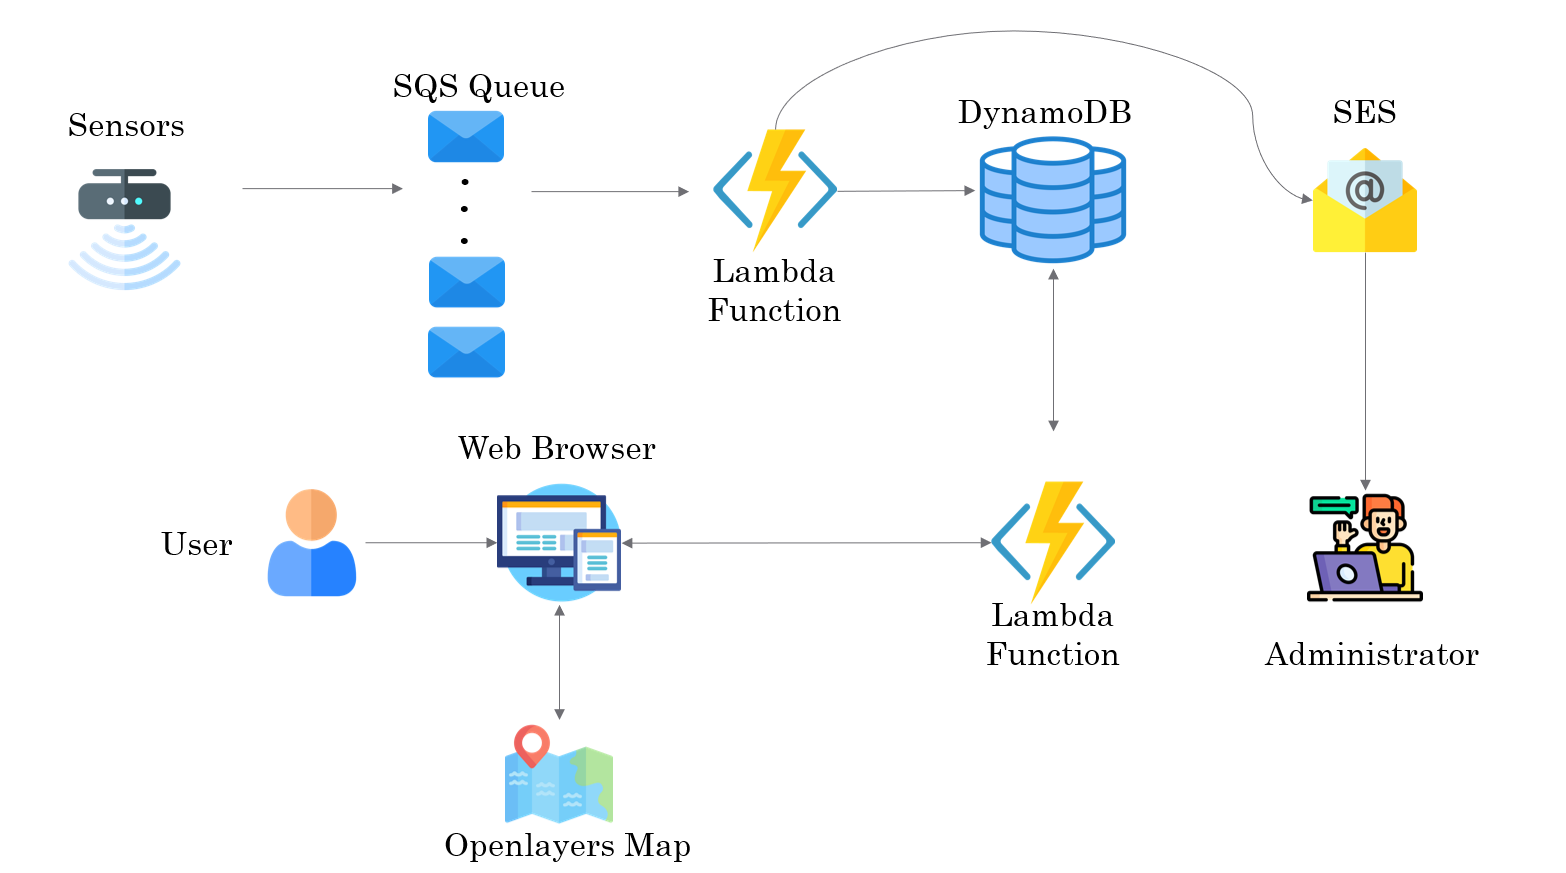
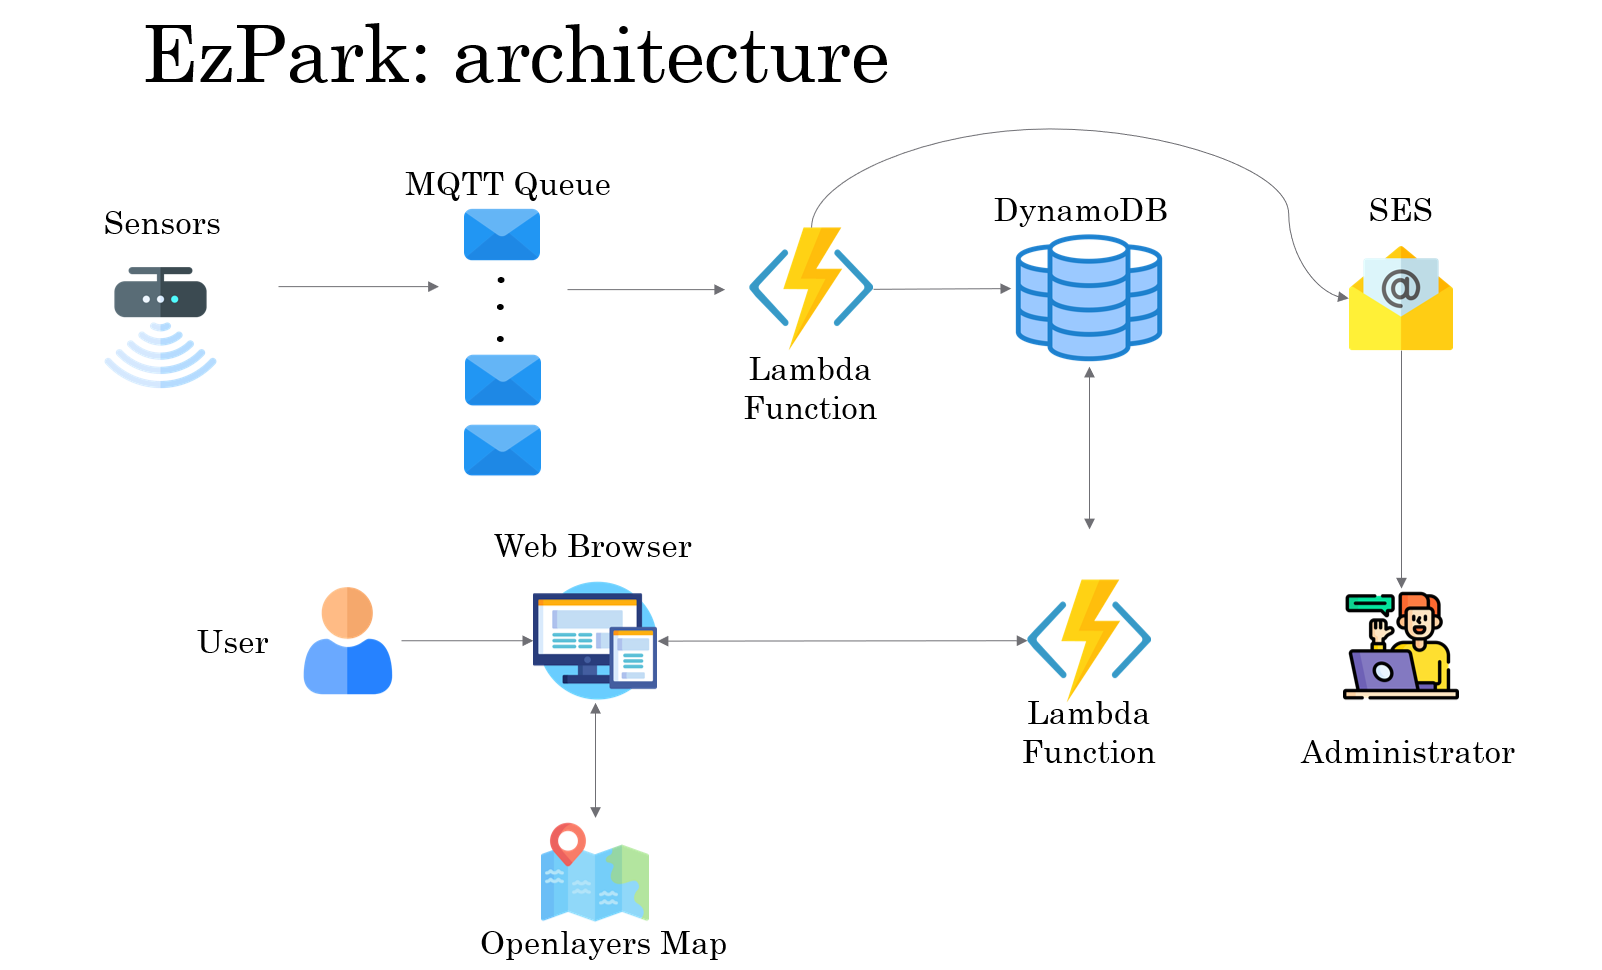
Updated the flow and added a known_bug image

diff --git a/Update_Free_Parking_Areas.py b/Update_Free_Parking_Areas.py
@@ -1,68 +1,46 @@
 import boto3
 import datetime
-import json
-
 
 def lambda_handler(event, context):
 	dynamodb = boto3.resource('dynamodb', endpoint_url="http://localhost:4566")
-	sqs_client = boto3.client('sqs', endpoint_url='http://localhost:4566')
 	ses = boto3.client('ses', endpoint_url='http://localhost:4566')
 
-	table = dynamodb.Table('Parcheggio')
+	table = dynamodb.Table('Parkings')
+	message = []
 
-	cities = ['Caserta', 'Napoli', 'Salerno']
-
-
-	for city in cities:
-		messages=[]
-		#response = queue.receive_messages(MaxNumberOfMessages=10, VisibilityTimeout=10, WaitTimeSeconds=10)
-		response = sqs_client.receive_message(
-			QueueUrl='http://localhost:4566/000000000000/'+city+'_sensors',
-			AttributeNames=[
-				'All'
-				],
-			MaxNumberOfMessages=10,
-			VisibilityTimeout=10,
-			WaitTimeSeconds=10,
+	for update in event:
+		if (update[3] != '-1'):
+			table.update_item(
+				TableName='Parkings',
+				Key={'parking_area_id': update[0]
+				},
+				ConditionExpression='attribute_exists(parking_area_id)',
+				UpdateExpression='SET parking_area_free = :val',
+				ExpressionAttributeValues = {':val': update[3]}
 			)
-		if(response):
-			messages=response.get("Messages", [])
-			for message in messages:
-				message_body = message["Body"]
-				content=json.loads(message_body)
-				list_of_values=list(content.values())
-				receipt_handle=message['ReceiptHandle']
-				if (list_of_values[3] != '-1'):
-					table.update_item(
-						TableName='Parcheggio',
-						Key={'parking_area_id': list_of_values[0]
-						},
-						ConditionExpression='attribute_exists(parking_area_id)',
-						UpdateExpression='SET parking_area_free = :val',
-						ExpressionAttributeValues = {':val': list_of_values[3]}
-					)
-					response = sqs_client.delete_message(
-					QueueUrl="http://localhost:4566/000000000000/"+city+"_sensors",
-					ReceiptHandle=receipt_handle,
-					)
-				else:
-					ses.send_email(
-                    Source='amazon-aws@amazon.com',
-                    Destination={
-                        'ToAddresses': [
-                            'a.tranquillo1@studenti.unisa.it',
-                        ]
-                    },
-                    Message={
-                        'Subject': {
-                            'Data': 'Sensor of ID='+list_of_values[0]+' has generated an error!',
-                            'Charset': 'utf-8'
-                        },
-                        'Body': {
-                            'Text': {
-                                'Data': 'Hello from Amazon AWS. This message has been sent to you because one of your sensor in date '+str(datetime.datetime.now())+' generated error. Please take care of it!',
-                                'Charset': 'utf-8'
-                            }
-                        }
-                    },
-                )
+			message.append("Item "+update[0]+" has been put in database")
+			
+		else:
+			message.append("Item "+update[0]+" has generated an error")
+			ses.send_email(
+			Source='amazon-aws@amazon.com',
+			Destination={
+				'ToAddresses': [
+					'user@example.com',
+				]
+			},
+			Message={
+				'Subject': {
+					'Data': 'Sensor of ID='+update[0]+' has generated an error!',
+					'Charset': 'utf-8'
+				},
+				'Body': {
+					'Text': {
+						'Data': 'Hello from Amazon AWS. This message has been sent to you because one of your sensor in date '+str(datetime.datetime.now())+' generated error. Please take care of it!',
+						'Charset': 'utf-8'
+					}
+				}
+			},
+		)
+			
+	return message

diff --git a/Nearest_Parking_Area_Function.py b/Nearest_Parking_Area_Function.py
@@ -13,7 +13,7 @@ def lambda_handler(event, context):
 
     if event['city'] and event['mode']=="static_mode":
         db_response = table.scan(
-            FilterExpression=Attr('parking_area_zone').eq(event['zone']) & Attr('parking_area_city').eq(event['city'])
+            FilterExpression=(Attr('parking_area_zone').eq(event['zone'])) & (Attr('parking_area_city').eq(event['city']))
         )
         trovato = 0
         free_parkings = []
